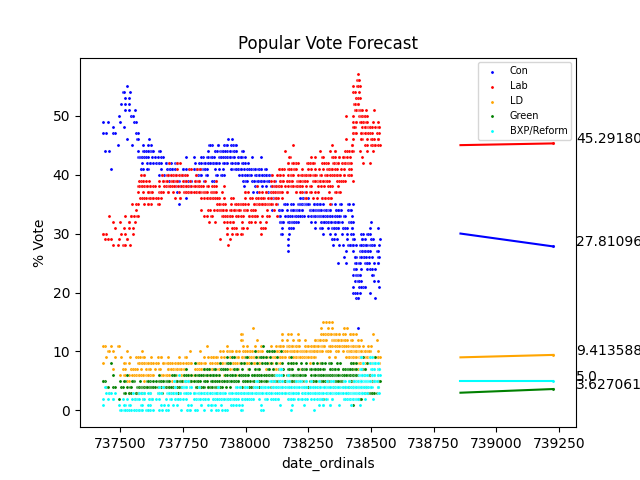
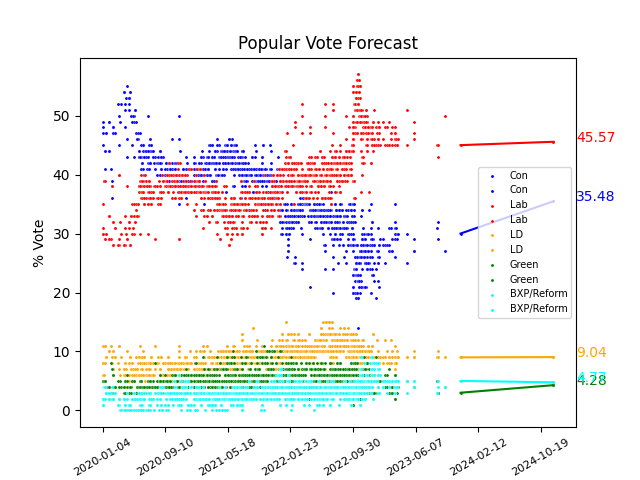
opinionpollgraph.png now shows dates on x axis

diff --git a/model.py b/model.py
@@ -1,4 +1,4 @@
-from datetime import datetime
+from datetime import datetime, date
 from statistics import mean
 
 import matplotlib.pyplot as plt
@@ -236,6 +236,7 @@ class Model:
         pp_df = pd.read_csv("datasets/PreprocessedOpinionPolls.csv", index_col=False)
 
         clean_df = clean_df.iloc[:, 1:]
+        clean_pp_df = pp_df.iloc[:]
         colours = ["blue", "red", "orange", "green", "cyan"]
 
         plt.clf()
@@ -251,9 +252,24 @@ class Model:
                 plt.title("Popular Vote Forecast")
 
                 ax = sns.scatterplot(data=clean_df, y=i, s=5, x="date_ordinals", color=c, label = i)
+                ax = sns.scatterplot(data=clean_pp_df, y=i, s=5, x="date_ordinals", color=c, label=i)
 
-                plt.annotate(str(pp_df[i][len(pp_df) - 1]),
-                             xy=(pp_df["date_ordinals"][len(pp_df) - 1] + 90, pp_df[i][len(pp_df) - 1]))
+                labels = np.arange(min(clean_pp_df['date_ordinals'].astype(int)),
+                                                max(clean_pp_df['date_ordinals'].astype(int)), 250)
+
+                new_labels = []
+                for j in range(0, len(labels)):
+                    new_labels.append(date.fromordinal(labels[j]))
+
+                ax.set_xticks(ticks = np.arange(min(clean_pp_df['date_ordinals'].astype(int)),
+                                                max(clean_pp_df['date_ordinals'].astype(int)), 250), labels = new_labels)
+
+                plt.xticks(rotation=30, size=8)
+                print(i)
+                plt.annotate(str(round(pp_df[i][len(pp_df) - 1], 2)),
+                             xy=(clean_pp_df["date_ordinals"][len(pp_df) - 1] + 90, clean_pp_df[i][len(pp_df) - 1]), color = c)
+
+
 
         plt.legend(fontsize="7")
         plt.xticks()
